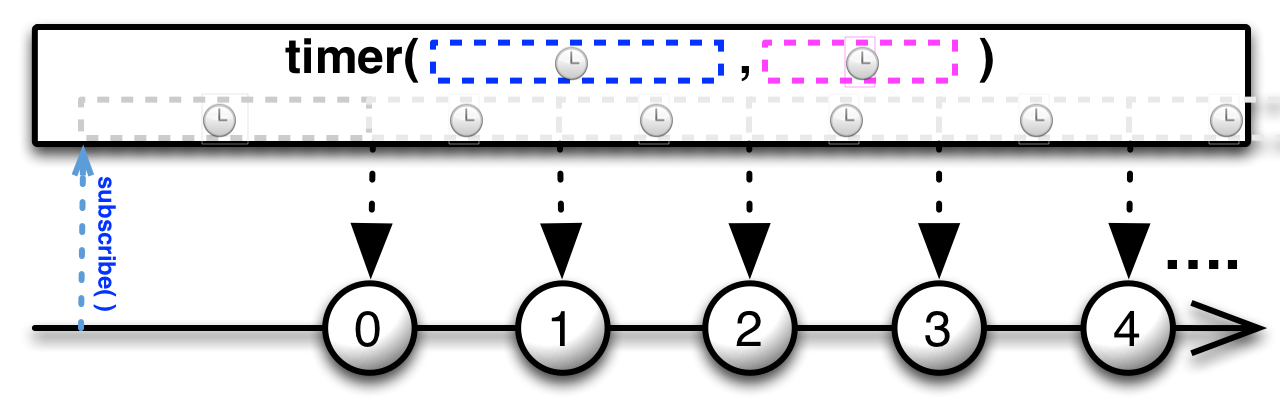
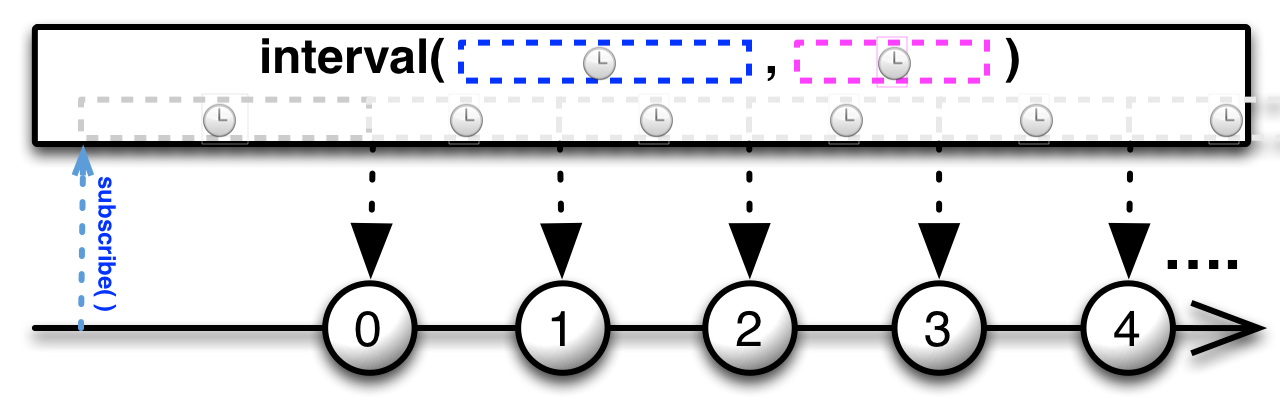
Reflect deprecation of timer() version in favor of interval()

Changed region(s): [[0.1875, 0.09, 0.8125, 0.24]]

diff --git a/documentation/operators/interval.html b/documentation/operators/interval.html
@@ -55,21 +55,30 @@ id: interval
       RxGroovy implements this operator as <code>interval</code>. It accepts as its parameters a
       span of time to wait between emissions and the <code>TimeUnit</code> in which this
       span is measured.
-     </p><p>
-      <code>interval</code> operates by default on the <code>computation</code>
-      <a href="../scheduler.html">Scheduler</a>. There is also a variant that allows you to set the Scheduler by
-      passing one in as a parameter.
      </p>
      <ul>
       <li>Javadoc: <a href="http://reactivex.io/RxJava/javadoc/rx/Observable.html#interval(long,%20java.util.concurrent.TimeUnit)"><code>interval(long,TimeUnit)</code></a></li>
       <li>Javadoc: <a href="http://reactivex.io/RxJava/javadoc/rx/Observable.html#interval(long,%20java.util.concurrent.TimeUnit%20rx.Scheduler)"><code>interval(long,TimeUnit,Scheduler)</code></a></li>
      </ul></figcaption>
     </figure>
+    <figure class="variant">
+     <img src="images/timer.p.png" style="width:100%;" alt="timer" />
+     <figcaption><p>
+      There is also a version of <code>interval</code> that returns an Observable that emits a single
+      zero after a specified delay, and then emits incrementally increasing numbers periodically
+      thereafter on a specified periodicity. This version of <code>interval</code> was called
+      <a href="timer.html"><code>timer</code></a> in RxGroovy 1.0.0, but that method has since been
+      deprecated in favor of the one named <code>interval</code> with the same behavior.
+     </p>
+     <ul>
+      <li>Javadoc: <a href="http://reactivex.io/RxJava/javadoc/rx/Observable.html#interval(long,%20long,%20java.util.concurrent.TimeUnit)"><code>interval(long,long,TimeUnit)</code></a></li>
+      <li>Javadoc: <a href="http://reactivex.io/RxJava/javadoc/rx/Observable.html#interval(long,%20long,%20java.util.concurrent.TimeUnit,%20rx.Scheduler)"><code>interval(long,long,TimeUnit,Scheduler)</code></a></li>
+     </ul></figcaption>
+    </figure>
     <p>
-     In RxGroovy there is also a version of the
-     <a href="timer.html"><span class="operator">Timer</span></a> operator that behaves somewhat
-     like <span class="operator">Interval</span>: it emits a zero after a time delay you specify,
-     an then incrementally increasing numbers of numbers at a periodicity you specify.
+     <code>interval</code> operates by default on the <code>computation</code>
+     <a href="../scheduler.html">Scheduler</a>. There are also variants that allow you to set the Scheduler by
+     passing one in as a parameter.
     </p>
   {% endlang_operator %}
 
@@ -80,21 +89,30 @@ id: interval
       RxJava implements this operator as <code>interval</code>. It accepts as its parameters a
       span of time to wait between emissions and the <code>TimeUnit</code> in which this
       span is measured.
-     </p><p>
-      <code>interval</code> operates by default on the <code>computation</code>
-      <a href="../scheduler.html">Scheduler</a>. There is also a variant that allows you to set the Scheduler by
-      passing one in as a parameter.
      </p>
      <ul>
       <li>Javadoc: <a href="http://reactivex.io/RxJava/javadoc/rx/Observable.html#interval(long,%20java.util.concurrent.TimeUnit)"><code>interval(long,TimeUnit)</code></a></li>
       <li>Javadoc: <a href="http://reactivex.io/RxJava/javadoc/rx/Observable.html#interval(long,%20java.util.concurrent.TimeUnit%20rx.Scheduler)"><code>interval(long,TimeUnit,Scheduler)</code></a></li>
      </ul></figcaption>
     </figure>
+    <figure class="variant">
+     <img src="images/timer.p.png" style="width:100%;" alt="timer" />
+     <figcaption><p>
+      There is also a version of <code>interval</code> that returns an Observable that emits a single
+      zero after a specified delay, and then emits incrementally increasing numbers periodically
+      thereafter on a specified periodicity. This version of <code>interval</code> was called
+      <a href="timer.html"><code>timer</code></a> in RxJava 1.0.0, but that method has since been
+      deprecated in favor of the one named <code>interval</code> with the same behavior.
+     </p>
+     <ul>
+      <li>Javadoc: <a href="http://reactivex.io/RxJava/javadoc/rx/Observable.html#interval(long,%20long,%20java.util.concurrent.TimeUnit)"><code>interval(long,long,TimeUnit)</code></a></li>
+      <li>Javadoc: <a href="http://reactivex.io/RxJava/javadoc/rx/Observable.html#interval(long,%20long,%20java.util.concurrent.TimeUnit,%20rx.Scheduler)"><code>interval(long,long,TimeUnit,Scheduler)</code></a></li>
+     </ul></figcaption>
+    </figure>
     <p>
-     In RxGroovy there is also a version of the
-     <a href="timer.html"><span class="operator">Timer</span></a> operator that behaves somewhat
-     like <span class="operator">Interval</span>: it emits a zero after a time delay you specify,
-     an then incrementally increasing numbers of numbers at a periodicity you specify.
+     <code>interval</code> operates by default on the <code>computation</code>
+     <a href="../scheduler.html">Scheduler</a>. There are also variants that allow you to set the Scheduler by
+     passing one in as a parameter.
     </p>
   {% endlang_operator %}
 

diff --git a/documentation/operators/timer.html b/documentation/operators/timer.html
@@ -47,69 +47,39 @@ id: timer
   {% endlang_operator %}
 
   {% lang_operator RxGroovy timer %}
-    <p>In RxGroovy there are two versions of the <code>timer</code> operator.</p>
+    <p>RxGroovy implements this operator as <code>timer</code>.</p>
     <figure class="variant">
      <img src="images/timer.png" style="width:100%;" alt="timer" />
      <figcaption><p>
-      The first version of <code>timer</code> returns an Observable that emits a single number zero
-      after a delay period you specify.
+      <code>timer</code> returns an Observable that emits a single number zero after a delay period you specify.
+     </p><p>
+      <code>timer</code> by default operates on the <code>computation</code>
+      <a href="../scheduler.html">Scheduler</a>, or you can override this by passing in a Scheduler as a final
+      parameter.
      </p>
      <ul>
       <li>Javadoc: <a href="http://reactivex.io/RxJava/javadoc/rx/Observable.html#timer(long,%20java.util.concurrent.TimeUnit)"><code>timer(long,TimeUnit)</code></a></li>
       <li>Javadoc: <a href="http://reactivex.io/RxJava/javadoc/rx/Observable.html#timer(long,%20java.util.concurrent.TimeUnit,%20rx.Scheduler)"><code>timer(long,TimeUnit,Scheduler)</code></a></li>
      </ul></figcaption>
     </figure>
-    <figure class="variant">
-     <img src="images/timer.p.png" style="width:100%;" alt="timer" />
-     <figcaption><p>
-      There is also a version of <code>timer</code> that returns an Observable that emits a single
-      zero after a specified delay, and then emits incrementally increasing numbers periodically
-      thereafter on a specified periodicity. In this way it behaves a bit more like the
-      <a href="interval.html"><span class="operator">Interval</span></a> operator.
-     </p>
-     <ul>
-      <li>Javadoc: <a href="http://reactivex.io/RxJava/javadoc/rx/Observable.html#timer(long,%20long,%20java.util.concurrent.TimeUnit)"><code>timer(long,long,TimeUnit)</code></a></li>
-      <li>Javadoc: <a href="http://reactivex.io/RxJava/javadoc/rx/Observable.html#timer(long,%20long,%20java.util.concurrent.TimeUnit,%20rx.Scheduler)"><code>timer(long,long,TimeUnit,Scheduler)</code></a></li>
-     </ul></figcaption>
-    </figure>
-    <p>
-     <code>timer</code> by default operates on the <code>computation</code>
-     <a href="../scheduler.html">Scheduler</a>, or you can override this by passing in a Scheduler as a final
-     parameter.
-    </p>
   {% endlang_operator %}
 
   {% lang_operator RxJava timer %}
-    <p>In RxJava there are two versions of the <code>timer</code> operator.</p>
+    <p>RxJava implements this operator as <code>timer</code>.</p>
     <figure class="variant">
      <img src="images/timer.png" style="width:100%;" alt="timer" />
      <figcaption><p>
-      The first version of <code>timer</code> returns an Observable that emits a single number zero
-      after a delay period you specify.
+      <code>timer</code> returns an Observable that emits a single number zero after a delay period you specify.
+     </p><p>
+      <code>timer</code> by default operates on the <code>computation</code>
+      <a href="../scheduler.html">Scheduler</a>, or you can override this by passing in a Scheduler as a final
+      parameter.
      </p>
      <ul>
       <li>Javadoc: <a href="http://reactivex.io/RxJava/javadoc/rx/Observable.html#timer(long,%20java.util.concurrent.TimeUnit)"><code>timer(long,TimeUnit)</code></a></li>
       <li>Javadoc: <a href="http://reactivex.io/RxJava/javadoc/rx/Observable.html#timer(long,%20java.util.concurrent.TimeUnit,%20rx.Scheduler)"><code>timer(long,TimeUnit,Scheduler)</code></a></li>
      </ul></figcaption>
     </figure>
-    <figure class="variant">
-     <img src="images/timer.p.png" style="width:100%;" alt="timer" />
-     <figcaption><p>
-      There is also a version of <code>timer</code> that returns an Observable that emits a single
-      zero after a specified delay, and then emits incrementally increasing numbers periodically
-      thereafter on a specified periodicity. In this way it behaves a bit more like the
-      <a href="interval.html"><span class="operator">Interval</span></a> operator.
-     </p>
-     <ul>
-      <li>Javadoc: <a href="http://reactivex.io/RxJava/javadoc/rx/Observable.html#timer(long,%20long,%20java.util.concurrent.TimeUnit)"><code>timer(long,long,TimeUnit)</code></a></li>
-      <li>Javadoc: <a href="http://reactivex.io/RxJava/javadoc/rx/Observable.html#timer(long,%20long,%20java.util.concurrent.TimeUnit,%20rx.Scheduler)"><code>timer(long,long,TimeUnit,Scheduler)</code></a></li>
-     </ul></figcaption>
-    </figure>
-    <p>
-     <code>timer</code> by default operates on the <code>computation</code>
-     <a href="../scheduler.html">Scheduler</a>, or you can override this by passing in a Scheduler as a final
-     parameter.
-    </p>
   {% endlang_operator %}
 
   {% lang_operator RxJS timer %}
